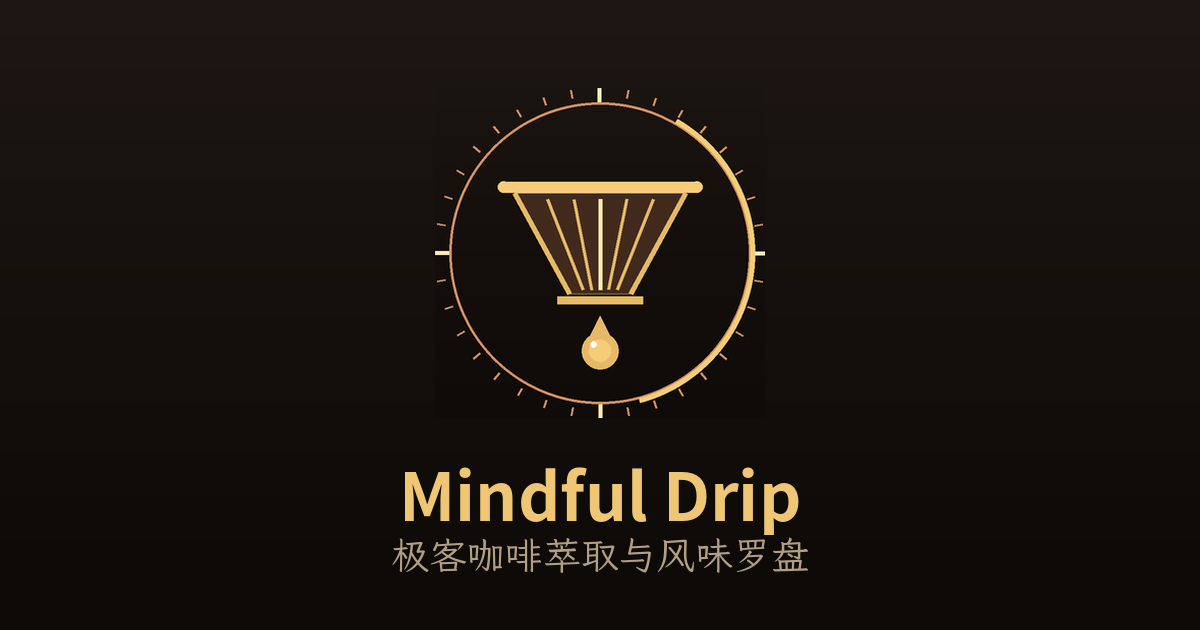
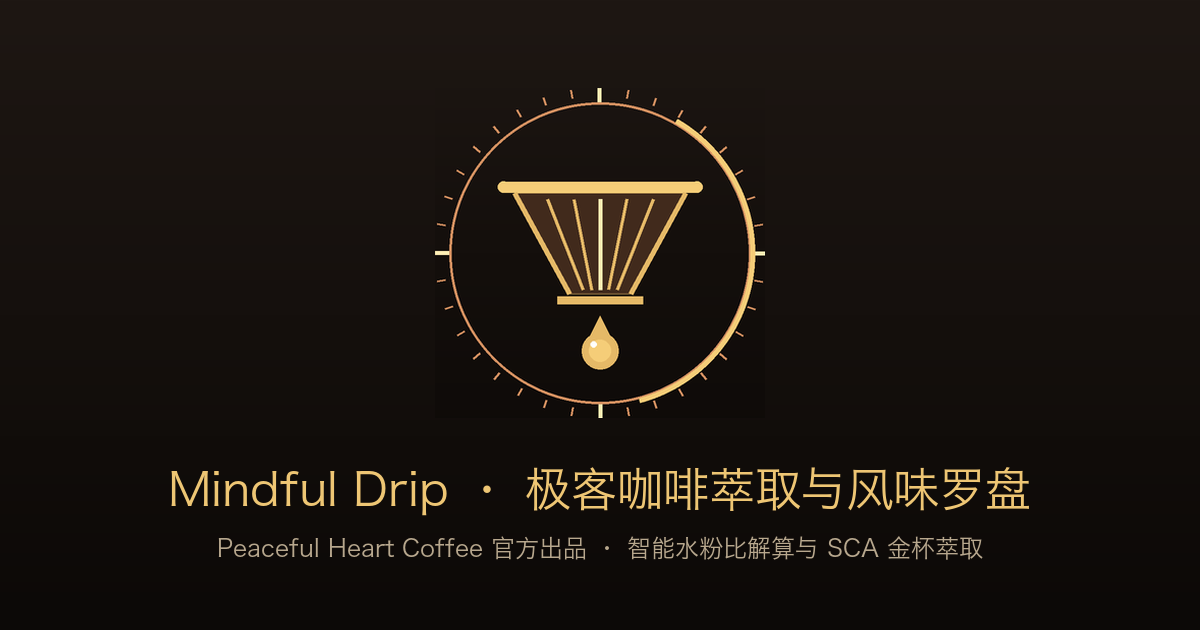
feat(og): 落地全新无缝黑曜金无裁切 1200x630 大图与 Meta 升级 (v1.0.1)

Changed region(s): [[0.1233, 0.7238, 0.8633, 0.9048]]

diff --git a/index.html b/index.html
@@ -14,15 +14,15 @@
   <meta property="og:url" content="https://www.peacefulheartcoffee.com/" />
   <meta property="og:title" content="Mindful Drip 极客咖啡萃取与风味罗盘" />
   <meta property="og:description" content="心灵的安宁咖啡 (Peaceful Heart Coffee) 官方出品：极客咖啡风味与萃取计算器，支持智能粉水比三向解算、分段注水精准计时、SCA 金杯萃取率罗盘与 PWA 离线运行。" />
-  <meta property="og:image" content="https://www.peacefulheartcoffee.com/og-image.png?v=1.0.0" />
-  <meta property="og:image:secure_url" content="https://www.peacefulheartcoffee.com/og-image.png?v=1.0.0" />
+  <meta property="og:image" content="https://www.peacefulheartcoffee.com/og-image.png?v=1.0.1" />
+  <meta property="og:image:secure_url" content="https://www.peacefulheartcoffee.com/og-image.png?v=1.0.1" />
   <meta property="og:image:type" content="image/png" />
   <meta property="og:image:width" content="1200" />
   <meta property="og:image:height" content="630" />
   <meta name="twitter:card" content="summary_large_image" />
   <meta name="twitter:title" content="Mindful Drip 极客咖啡萃取与风味罗盘" />
   <meta name="twitter:description" content="心灵的安宁咖啡官方出品 · 极客咖啡风味与萃取计算器" />
-  <meta name="twitter:image" content="https://www.peacefulheartcoffee.com/og-image.png?v=1.0.0" />
+  <meta name="twitter:image" content="https://www.peacefulheartcoffee.com/og-image.png?v=1.0.1" />
 
   <!-- PWA & Mobile Web Capabilities -->
   <link rel="manifest" href="/manifest.webmanifest" />
@@ -49,7 +49,7 @@
   <!-- 现代高精图标体系 (iOS HIG & W3C 标准) -->
   <link rel="icon" type="image/svg+xml" href="/favicon.svg" />
   <link rel="icon" type="image/png" sizes="32x32" href="/favicon-32x32.png" />
-  <link rel="apple-touch-icon" sizes="180x180" href="/apple-touch-icon.png?v=1.0.0" />
+  <link rel="apple-touch-icon" sizes="180x180" href="/apple-touch-icon.png?v=1.0.1" />
 
   <!-- Stylesheets -->
   <link rel="stylesheet" href="./css/design-tokens.css?v=1.0.0" />

diff --git a/sw.js b/sw.js
@@ -1,9 +1,9 @@
 /**
- * Mindful Drip - PWA Service Worker (v1.0.0)
+ * Mindful Drip - PWA Service Worker (v1.0.1)
  * Intelligent Network-First for Navigation, Stale-While-Revalidate for Assets
  */
 
-const CACHE_NAME = 'mindful-drip-v1.0.0';
+const CACHE_NAME = 'mindful-drip-v1.0.1';
 
 const ASSETS_TO_CACHE = [
   './',
